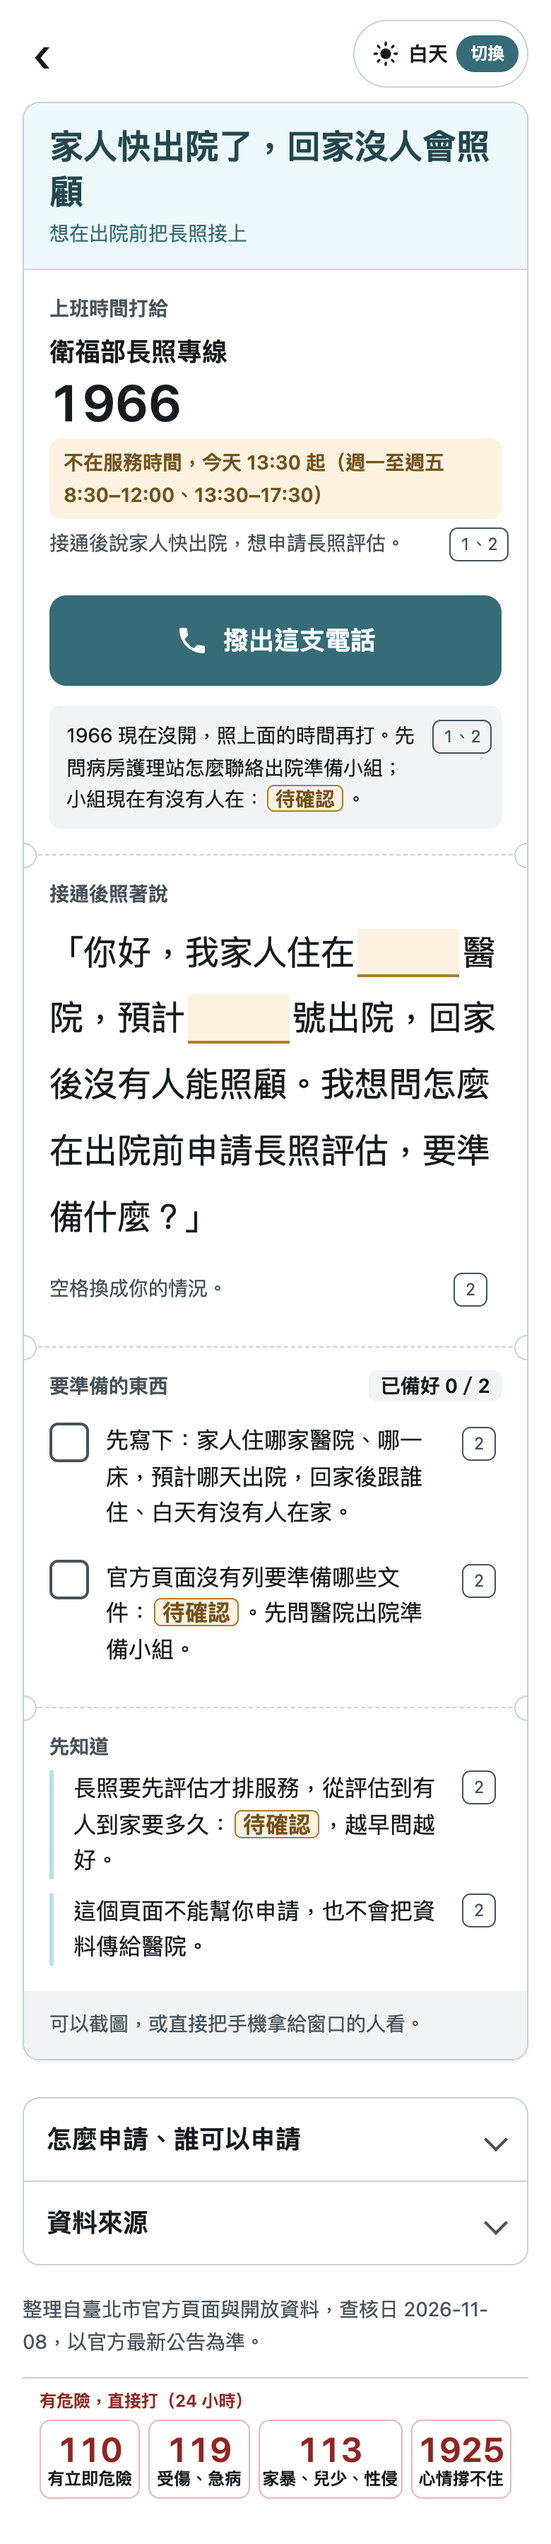
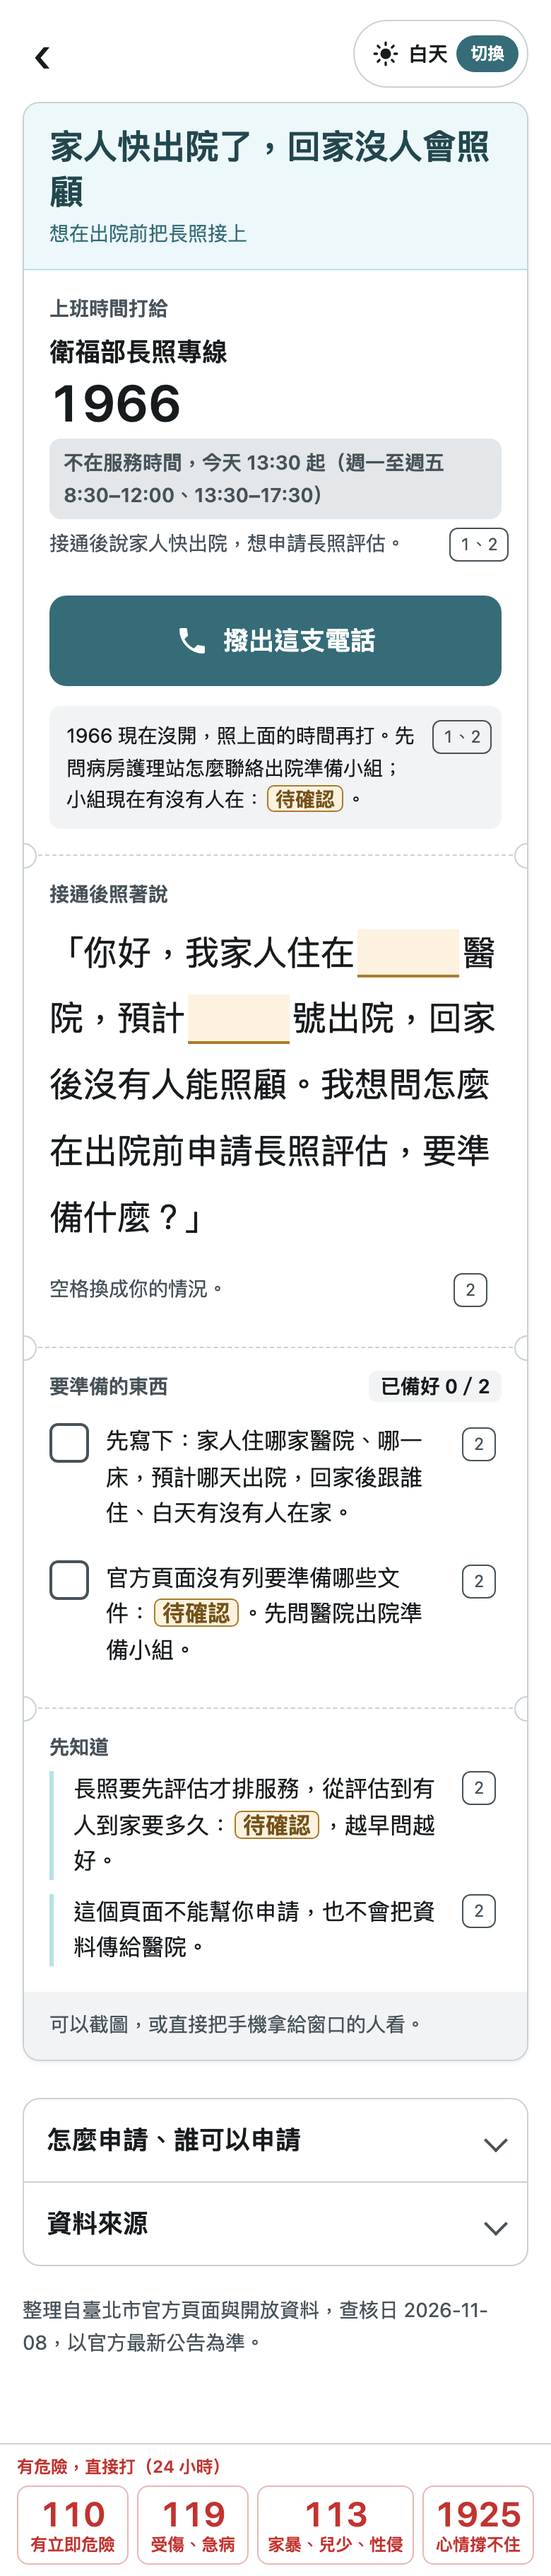
fix(situation): 緊急列文字改 red-600，閉線狀態改灰色系
- --urgent-text 改 red-600（白底 5.51:1），緊急列號碼、名稱、標題都用它；細框維持 red-200
- --closed / --on-closed 改 grayscale-700，--closed-fill 改 grayscale-100；情境卡閉線框底色改 --closed-fill
- 對比測試改驗 --closed on --closed-fill，並加 --urgent-text on --urgent-soft
- 重拍受影響的 10 張 390px 截圖

diff --git a/docs/prototypes/situation-entry/styles.css b/docs/prototypes/situation-entry/styles.css
@@ -97,12 +97,12 @@
   --on-urgent: var(--tp-white);
   --on-urgent-sub: var(--tp-red-50);
   --urgent-soft: var(--tp-red-50);
-  --urgent-text: var(--tp-red-700);
+  --urgent-text: var(--tp-red-600);
   --urgent-line: var(--tp-red-200);
   --sos-bg: var(--tp-white);
-  --closed: var(--tp-secondary-800);
-  --closed-fill: var(--tp-secondary-800);
-  --on-closed: var(--tp-white);
+  --closed: var(--tp-grayscale-700);
+  --closed-fill: var(--tp-grayscale-100);
+  --on-closed: var(--tp-grayscale-700);
   --pending-ink: var(--tp-secondary-800);
   --desk-link: var(--tp-primary-700);
   --focus: var(--tp-primary-600);
@@ -318,7 +318,7 @@ a { color: var(--go); }
 }
 .sub { margin: 6px 0 0; color: var(--muted); font-size: 14px; }
 .hours { margin: 6px 0 0; font-size: 14px; font-weight: 600; color: var(--tick); }
-.hours.is-closed { padding: 6px 10px; border-radius: 8px; background: var(--blank); color: var(--closed); }
+.hours.is-closed { padding: 6px 10px; border-radius: 8px; background: var(--closed-fill); color: var(--closed); }
 .dial {
   display: flex; align-items: center; justify-content: center; gap: 10px; min-height: 64px; margin-top: 14px;
   border-radius: 12px; background: var(--go); color: var(--on-go); font-size: 18px; font-weight: 600; text-decoration: none;
@@ -432,7 +432,7 @@ a { color: var(--go); }
   text-decoration: none; line-height: 1.15; text-align: center;
 }
 .sos-call b { font-size: 24px; font-weight: 600; font-variant-numeric: tabular-nums; }
-.sos-call span { font-size: 12px; font-weight: 600; color: var(--ink); white-space: nowrap; }
+.sos-call span { font-size: 12px; font-weight: 600; color: var(--urgent-text); white-space: nowrap; }
 .sos-call:active { background: var(--urgent-soft); }
 
 .call-status {
